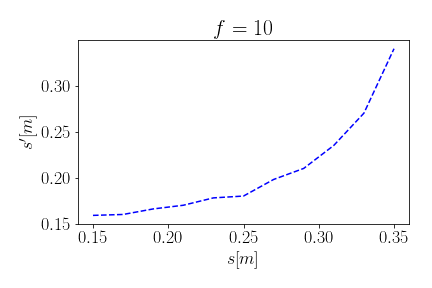
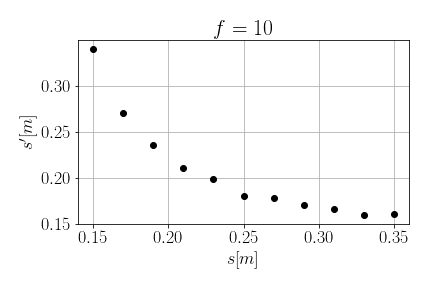
yes

diff --git a/rapport2/hej.py b/rapport2/hej.py
@@ -33,17 +33,14 @@ s_mark1 = I_r1-lin1 # m - laengden s'
 s2 = lin2-I_0       # m - laengden s
 s_mark2 = I_r2-lin2 # m - laengden s'
 # %% - - - - - - - -  - - - - - - - -
-s1 = np.sort(s1)
-# s_mark1 = np.sort(s_mark1)
-# s2 = np.sort(s2)
-# s_mark2 = np.sort(s_mark2)
-plt.figure()
+plt.figure(1)
 plt.title(r"$f = 10$")
-plt.plot(s1,s_mark1, 'b--')
+plt.plot(s1,s_mark1, 'ok')
 plt.xlabel(r"$s [m]$");
+plt.grid(1)
 plt.ylabel(r"$s' [m]$");
 plt.tight_layout()
-# plt.savefig("res1.png")
+plt.savefig("res1.png")
 plt.show()
 # %% - - - - - - - -  - - - - - - - -
 #- - - - - - - - - - - - - - - - - - - - - - usikkerheden paa maalingerne
